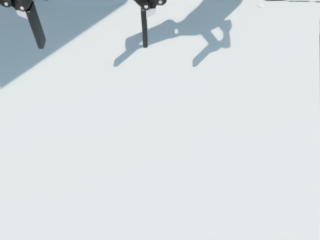
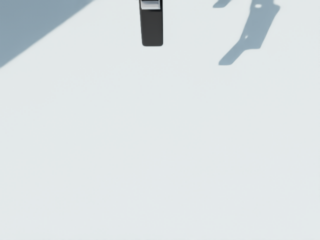
re-aligned all the cameras

Changed region(s): [[0.0, 0.0, 1.0, 0.3792]]

diff --git a/source/uwlab_tasks/uwlab_tasks/manager_based/manipulation/omnireset/config/ur5e_robotiq_2f140/camera_align_cfg.py b/source/uwlab_tasks/uwlab_tasks/manager_based/manipulation/omnireset/config/ur5e_robotiq_2f140/camera_align_cfg.py
@@ -107,12 +107,12 @@ class CameraAlignSceneCfg(RlStateSceneCfg):
         height=480,
         width=640,
         offset=TiledCameraCfg.OffsetCfg(
-            pos=(-0.9101819, 0.0358507, 0.4750194),
-            rot=(0.67165214, 0.23014157, -0.25002852, -0.65833426),
+            pos=(-0.8706788, 0.0243685, 0.4224738),
+            rot=(0.66817688, 0.23835066, -0.22353137, -0.66840283),
             convention="opengl",
         ),
         data_types=["rgb"],
-        spawn=sim_utils.PinholeCameraCfg(focal_length=24.40),
+        spawn=sim_utils.PinholeCameraCfg(focal_length=25.40),
     )
 
     side_camera = TiledCameraCfg(
@@ -121,8 +121,8 @@ class CameraAlignSceneCfg(RlStateSceneCfg):
         height=480,
         width=640,
         offset=TiledCameraCfg.OffsetCfg(
-            pos=(-0.5430160, -0.2917557, 0.4118886),
-            rot=(0.93103116, 0.35759344, -0.06975901, 0.02101393),
+            pos=(-0.5983517, -0.3370562, 0.4304187),
+            rot=(0.92958434, 0.36533178, -0.03832522, -0.03060744),
             convention="opengl",
         ),
         data_types=["rgb"],
@@ -130,17 +130,17 @@ class CameraAlignSceneCfg(RlStateSceneCfg):
     )
 
     wrist_camera = TiledCameraCfg(
-        prim_path="{ENV_REGEX_NS}/Robot/ee_link/robotiq_base_link/rgb_wrist_camera",
+        prim_path="{ENV_REGEX_NS}/Robot/wrist_3_link/rgb_wrist_camera",
         update_period=0,
         height=480,
         width=640,
         offset=TiledCameraCfg.OffsetCfg(
-            pos=(-0.06192727, -0.08342348, -0.02054465),
-            rot=(0.02589054,  0.99876904,  0.00439874, -0.04208001),
+            pos=(-0.0230417, -0.0827855, -0.0249408),
+            rot=(0.02893693, 0.99953394, 0.00879001, -0.00415913),
             convention="opengl",
         ),
         data_types=["rgb"],
-        spawn=sim_utils.PinholeCameraCfg(focal_length=20.02, clipping_range=(0.03, 1e6)),
+        spawn=sim_utils.PinholeCameraCfg(focal_length=25.5, clipping_range=(0.07, 1e6)),
     )
 
 # Calibration:

diff --git a/scripts_v2/tools/sim2real/align_cameras.py b/scripts_v2/tools/sim2real/align_cameras.py
@@ -17,9 +17,9 @@ Mirrors the sysid workflow:
 Usage (front camera example):
     python scripts_v2/tools/sim2real/align_cameras.py \
         --enable_cameras \
-        --camera front_camera \
-        --real_image /path/to/real_front.png \
-        --joint_angles -12.0 -80.0 63.0 -30.6 -97.9 174.3
+        --camera wrist_camera \
+        --real_image /home/airlabbw/Research/skill_refactor/isaac_sim2real/third-party/diffusion_policy/scripts/sim2real/perception/calibrations/wrist_rgb.png \
+        --joint_angles 11.52201687 -89.25285672 -105.38453916 -76.38512525 89.57989806 -78.08544465
 
 Usage (wrist camera example):
     python scripts_v2/tools/sim2real/align_cameras.py \
